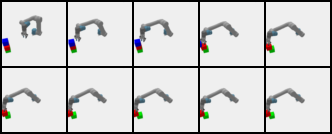
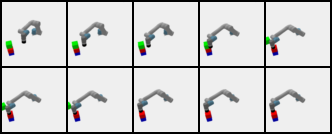
added new architecture

diff --git a/src/models/diffusion_frame_pred.py b/src/models/diffusion_frame_pred.py
@@ -5,6 +5,7 @@ from timm.models.vision_transformer import PatchEmbed
 from einops import rearrange, repeat
 from .difussion_utils.transformers_utils import (
     DiTBlock,
+    DiTBlockFrameAttention,
     modulate,
     get_2d_sincos_pos_embed,
     get_1d_sincos_temp_embed,
@@ -286,6 +287,144 @@ class DiTActionSeqISimMultiCondi(DiTActionSeq):
             x = rearrange(x, "(b t) f d -> (b f) t d", b=batch_sz)
 
         c = timestep_spatial + a
+        x = self.final_layer(x, c)  # (N, T, patch_size ** 2 * out_channels)
+        x = self.unpatchify(x)  # (N, out_channels, H, W)
+        x = rearrange(x, "(b f) c h w -> b f c h w", b=batch_sz)
+        return x
+
+
+class DiTActionSeqFrameAtt(DiTActionSeq):
+    # https://arxiv.org/pdf/2302.05543
+    def __init__(self, config):
+        super().__init__(config)
+        self.temp_embed = nn.Parameter(
+            torch.zeros(1, self.seq_len, self.hidden_size), requires_grad=False
+        )
+        temp_embed = get_1d_sincos_temp_embed(
+            self.temp_embed.shape[-1], self.temp_embed.shape[-2]
+        )
+        self.temp_embed.data.copy_(torch.from_numpy(temp_embed).float().unsqueeze(0))
+        self.first_block = DiTBlockFrameAttention(
+            self.hidden_size,
+            self.num_heads,
+            mlp_ratio=self.mlp_ratio,
+        )
+
+        self.final_block = DiTBlockFrameAttention(
+            self.hidden_size,
+            self.num_heads,
+            mlp_ratio=self.mlp_ratio,
+        )
+
+        nn.init.constant_(self.first_block.adaLN_modulation_x[-1].weight, 0)
+        nn.init.constant_(self.first_block.adaLN_modulation_x[-1].bias, 0)
+        nn.init.constant_(self.final_block.adaLN_modulation_x[-1].weight, 0)
+        nn.init.constant_(self.final_block.adaLN_modulation_x[-1].bias, 0)
+
+    def forward(self, x, t, a, mask_frame_num=None):
+        """
+        Forward pass of DiT which now also takes actions as input
+        x: (N, L, C, H, W) tensor of video inputs
+        t: (N,) tensor of diffusion timesteps
+        a: (N, C, 7) tensor of actions (TCP positions in (x, y, z, rpx, rpy, rpz))
+        """
+        batch_sz, l, ch, h, w = x.shape
+
+        x = rearrange(x, "b f c h w -> (b f) c h w")
+        x = self.x_embedder(x) + self.pos_embed
+        a = rearrange(a, "b f d -> (b f) d")
+        a = self.a_embedder(a)  # (N, D) Action embedding
+        t = self.t_embedder(t)  # (N, D)
+        timestep_spatial = repeat(t, "n d -> (n c) d", c=l)
+        timestep_temp = repeat(t, "n d -> (n c) d", c=self.pos_embed.shape[1])
+        c = timestep_spatial + a
+        x = self.first_block(x, c)
+
+        for i in range(0, len(self.blocks), 2):
+            spatial_block, temp_block = self.blocks[i : i + 2]
+            c = timestep_spatial + a
+            x = spatial_block(x, c)
+            x = rearrange(x, "(b f) t d -> (b t) f d", b=batch_sz)
+            # Add Time Embedding
+            if i == 0:
+                x = x + self.temp_embed[:, 0:l]
+            c = timestep_temp
+            x = temp_block(x, c)
+            x = rearrange(x, "(b t) f d -> (b f) t d", b=batch_sz)
+
+        c = timestep_spatial + a
+        # x = self.final_block(x, c)
+        x = self.final_layer(x, c)  # (N, T, patch_size ** 2 * out_channels)
+        x = self.unpatchify(x)  # (N, out_channels, H, W)
+        x = rearrange(x, "(b f) c h w -> b f c h w", b=batch_sz)
+        return x
+
+
+class DiTActionSeqFrameMultAtt(DiTActionSeq):
+    # https://arxiv.org/pdf/2302.05543
+    def __init__(self, config):
+        super().__init__(config)
+        self.temp_embed = nn.Parameter(
+            torch.zeros(1, self.seq_len, self.hidden_size), requires_grad=False
+        )
+        temp_embed = get_1d_sincos_temp_embed(
+            self.temp_embed.shape[-1], self.temp_embed.shape[-2]
+        )
+        self.temp_embed.data.copy_(torch.from_numpy(temp_embed).float().unsqueeze(0))
+        self.first_block = DiTBlockFrameAttention(
+            self.hidden_size,
+            self.num_heads,
+            mlp_ratio=self.mlp_ratio,
+        )
+        self.first_blocks = nn.ModuleList(
+            [
+                DiTBlockFrameAttention(
+                    self.hidden_size, self.num_heads, mlp_ratio=self.mlp_ratio
+                )
+                for _ in range(2)
+            ]
+        )
+        for first_block in self.first_blocks:
+            nn.init.constant_(first_block.adaLN_modulation_x[-1].weight, 0)
+            nn.init.constant_(first_block.adaLN_modulation_x[-1].bias, 0)
+        # nn.init.constant_(self.final_block.adaLN_modulation_x[-1].weight, 0)
+        # nn.init.constant_(self.final_block.adaLN_modulation_x[-1].bias, 0)
+
+    def forward(self, x, t, a, mask_frame_num=None):
+        """
+        Forward pass of DiT which now also takes actions as input
+        x: (N, L, C, H, W) tensor of video inputs
+        t: (N,) tensor of diffusion timesteps
+        a: (N, C, 7) tensor of actions (TCP positions in (x, y, z, rpx, rpy, rpz))
+        """
+        batch_sz, l, ch, h, w = x.shape
+
+        x = rearrange(x, "b f c h w -> (b f) c h w")
+        x = self.x_embedder(x) + self.pos_embed
+        a = rearrange(a, "b f d -> (b f) d")
+        a = self.a_embedder(a)  # (N, D) Action embedding
+        t = self.t_embedder(t)  # (N, D)
+        timestep_spatial = repeat(t, "n d -> (n c) d", c=l)
+        timestep_temp = repeat(t, "n d -> (n c) d", c=self.pos_embed.shape[1])
+        c = timestep_spatial + a
+
+        for f_block in self.first_blocks:
+            x = f_block(x, c)  # (N, T, D)
+
+        for i in range(0, len(self.blocks), 2):
+            spatial_block, temp_block = self.blocks[i : i + 2]
+            c = timestep_spatial + a
+            x = spatial_block(x, c)
+            x = rearrange(x, "(b f) t d -> (b t) f d", b=batch_sz)
+            # Add Time Embedding
+            if i == 0:
+                x = x + self.temp_embed[:, 0:l]
+            c = timestep_temp
+            x = temp_block(x, c)
+            x = rearrange(x, "(b t) f d -> (b f) t d", b=batch_sz)
+
+        c = timestep_spatial + a
+        # x = self.final_block(x, c)
         x = self.final_layer(x, c)  # (N, T, patch_size ** 2 * out_channels)
         x = self.unpatchify(x)  # (N, out_channels, H, W)
         x = rearrange(x, "(b f) c h w -> b f c h w", b=batch_sz)

diff --git a/src/models/difussion_utils/transformers_utils.py b/src/models/difussion_utils/transformers_utils.py
@@ -478,3 +478,65 @@ class MMDiTBlockJoint(nn.Module):
         )
         x = x_out + a_out
         return x
+
+
+class DiTBlockFrameAttention(nn.Module):
+    """
+    Text-to-Image Diffusion Models are Zero-Shot Video Generators
+    https://arxiv.org/pdf/2303.13439
+    """
+
+    def __init__(
+        self,
+        hidden_size,
+        num_heads,
+        mlp_ratio=4.0,
+        num_msk=2,
+        **block_kwargs,
+    ):
+        super().__init__()
+        self.num_msk = num_msk
+        self.norm1 = nn.LayerNorm(hidden_size, elementwise_affine=False, eps=1e-6)
+        self.lin1 = nn.Linear(hidden_size, 2 * hidden_size, bias=True)
+        self.lin2 = nn.Linear(hidden_size, hidden_size, bias=True)
+        head_dim = hidden_size // num_heads
+        self.scale = head_dim**-0.5
+        self.norm2 = nn.LayerNorm(hidden_size, elementwise_affine=False, eps=1e-6)
+
+        self.norm3 = nn.LayerNorm(hidden_size, elementwise_affine=False, eps=1e-6)
+        mlp_hidden_dim = int(hidden_size * mlp_ratio)
+        approx_gelu = lambda: nn.GELU(approximate="tanh")
+        self.mlp = Mlp(
+            in_features=hidden_size,
+            hidden_features=mlp_hidden_dim,
+            act_layer=approx_gelu,
+            drop=0,
+        )
+        self.adaLN_modulation_x = nn.Sequential(
+            nn.SiLU(), nn.Linear(hidden_size, 6 * hidden_size, bias=True)
+        )
+
+    def forward(self, x, c):
+        B, N, C = x.shape
+        shift_msa_x, scale_msa_x, gate_msa_x, shift_mlp_x, scale_mlp_x, gate_mlp_x = (
+            self.adaLN_modulation_x(c).chunk(6, dim=1)
+        )
+        x_0 = x[:, : self.num_msk, :]
+        x_0_k, x_0_v = self.lin1(
+            modulate(self.norm1(x_0), shift_msa_x, scale_msa_x)
+        ).chunk(2, dim=2)
+
+        x_k_q = self.lin2(modulate(self.norm2(x), shift_msa_x, scale_msa_x))
+
+        attn = (x_k_q @ x_0_k.transpose(-2, -1)) * self.scale
+        attn = attn.softmax(dim=-1)
+
+        x = (attn @ x_0_v).transpose(1, 2).reshape(B, N, C)
+
+        x = x + gate_msa_x.unsqueeze(1) * x
+
+        x = x + gate_mlp_x.unsqueeze(1) * self.mlp(
+            modulate(self.norm3(x), shift_mlp_x, scale_mlp_x)
+        )
+
+        return x

diff --git a/src/dataset/data_set_seq_scene.py b/src/dataset/data_set_seq_scene.py
@@ -7,76 +7,8 @@ import torchvision.utils as vutils
 import torch.nn.functional as F
 import os
 from collections import OrderedDict
-import cv2
-import einops
 import matplotlib.pyplot as plt
 from .utils_ds import DataProcessor
-
-
-def HWC3(x):
-    assert x.dtype == np.uint8
-    if x.ndim == 2:
-        x = x[:, :, None]
-    assert x.ndim == 3
-    H, W, C = x.shape
-    assert C == 1 or C == 3 or C == 4
-    if C == 3:
-        return x
-    if C == 1:
-        return np.concatenate([x, x, x], axis=2)
-    if C == 4:
-        color = x[:, :, 0:3].astype(np.float32)
-        alpha = x[:, :, 3:4].astype(np.float32) / 255.0
-        y = color * alpha + 255.0 * (1.0 - alpha)
-        y = y.clip(0, 255).astype(np.uint8)
-        return y
-
-
-def resize_image(input_image, resolution):
-    H, W, C = input_image.shape
-    H = float(H)
-    W = float(W)
-    k = float(resolution) / min(H, W)
-    H *= k
-    W *= k
-    H = int(np.round(H / 64.0)) * 64
-    W = int(np.round(W / 64.0)) * 64
-    img = cv2.resize(
-        input_image,
-        (W, H),
-        interpolation=cv2.INTER_LANCZOS4 if k > 1 else cv2.INTER_AREA,
-    )
-    return img
-
-
-def canny(
-    image,
-    use_cuda=False,
-    t_lower=2,
-    t_upper=10,
-    aperture_size=5,
-    image_resolution=64,
-):
-    image = np.transpose(image, (1, 2, 0))
-    img = HWC3(np.uint8(image))
-    edge_map2 = cv2.Canny(img, t_lower, t_upper)
-    edge_map = HWC3(edge_map2)
-
-    # plt.figure(figsize=(10, 5))
-
-    # plt.subplot(1, 2, 1)
-    # plt.title("Original Image")
-    # plt.imshow(cv2.cvtColor(image, cv2.COLOR_BGR2RGB))
-
-    # plt.subplot(1, 2, 2)
-    # plt.title("Canny Edge Detection")
-    # plt.imshow(edge_map2)
-
-    # plt.show()
-
-    edge_map_torch = torch.from_numpy(edge_map.copy()).float() / 255.0
-    edge_map_torch = einops.rearrange(edge_map_torch, "h w c -> c h w")
-    return edge_map_torch
 
 
 class RobotDatasetSeqScene(Dataset):

diff --git a/src/trainer_dit_seq_scene.py b/src/trainer_dit_seq_scene.py
@@ -6,7 +6,11 @@ import torch.distributed as dist
 from torch.nn.parallel import DistributedDataParallel as DDP
 from tqdm import tqdm
 from src.dataset.data_set_seq_scene import RobotDatasetSeqScene, collate_fn
-from src.models.diffusion_frame_pred import DiTActionSeqISim
+from src.models.diffusion_frame_pred import (
+    DiTActionSeqISim,
+    DiTActionSeqFrameAtt,
+    DiTActionSeqFrameMultAtt,
+)
 from copy import deepcopy
 from src.models.difussion_utils.schedule import create_diffusion_seq
 from diffusers.models import AutoencoderKL
@@ -41,18 +45,7 @@ class DiTTrainerScene(TrainerBase):
         self.__setup__DDP(self.config["distributed"])
         # Model settings
         model_config = self.config["model"]
-        self.model_dit = DiTActionSeqISim(
-            input_size=model_config["input_size"],
-            patch_size=model_config["patch_size"],
-            in_channels=model_config["in_channels"],
-            hidden_size=model_config["hidden_size"],
-            depth=model_config["depth"],
-            num_heads=model_config["num_heads"],
-            mlp_ratio=model_config["mlp_ratio"],
-            action_dim=model_config["action_dim"],
-            learn_sigma=model_config["learn_sigma"],
-            seq_len=model_config["seq_len"],
-        )
+        self.model_dit = DiTActionSeqFrameAtt(model_config)
 
         self.eval_save_real_dir = os.path.join(
             base, self.config["trainer"]["eval_save_real"]
@@ -110,7 +103,7 @@ class DiTTrainerScene(TrainerBase):
             num_workers=2,
             pin_memory=True,
             drop_last=True,
-            collate_fn=collate_fn,
+            # collate_fn=collate_fn,
         )
 
         self.val_loader = (

diff --git a/src/trainer_dit_seq_act_frames.py b/src/trainer_dit_seq_act_frames.py
@@ -169,7 +169,9 @@ class DiTTrainerActFrames(TrainerBase):
             self.batch_size % dist.get_world_size() == 0
         ), f"Batch size must be divisible by the world size."
         self.rank = dist.get_rank()
-        self.device = torch.device(self.cuda_num)
+        self.device = torch.device(
+            self.rank % torch.cuda.device_count()
+        )  # self.cuda_num
         self.seed = self.global_seed * dist.get_world_size() + self.rank
         torch.manual_seed(self.seed)
         torch.cuda.set_device(self.device)

diff --git a/src/trainer_dit_seq_scene_mc.py b/src/trainer_dit_seq_scene_mc.py
@@ -133,8 +133,8 @@ class DiTTrainerSceneMC(TrainerBase):
         ), f"Batch size must be divisible by the world size."
         self.rank = dist.get_rank()
         self.device = torch.device(
-            self.cuda_num
-        )  # self.rank % torch.cuda.device_count()
+            self.rank % torch.cuda.device_count()
+        )  # self.cuda_num
         self.seed = self.global_seed * dist.get_world_size() + self.rank
         torch.manual_seed(self.seed)
         torch.cuda.set_device(self.device)

diff --git a/src/models/difussion_utils/gaussian_diffusion_seq.py b/src/models/difussion_utils/gaussian_diffusion_seq.py
@@ -302,6 +302,7 @@ class GaussianDiffusionSeq:
         sample = (
             out["mean"] + nonzero_mask * torch.exp(0.5 * out["log_variance"]) * noise
         )
+        sample[:, :2, :, :, :] = x[:, :2, :, :, :]
         return {"sample": sample, "pred_xstart": out["pred_xstart"]}
 
     def p_sample_loop(

diff --git a/run_training_diff.py b/run_training_diff.py
@@ -49,6 +49,7 @@ def main():
                 "DiTTrainerActFrames",
                 "DiTTrainerActFramesAtt",
                 "DiTTrainerSceneMC",
+                "DiTTrainerScene",
             ],
         )
 
